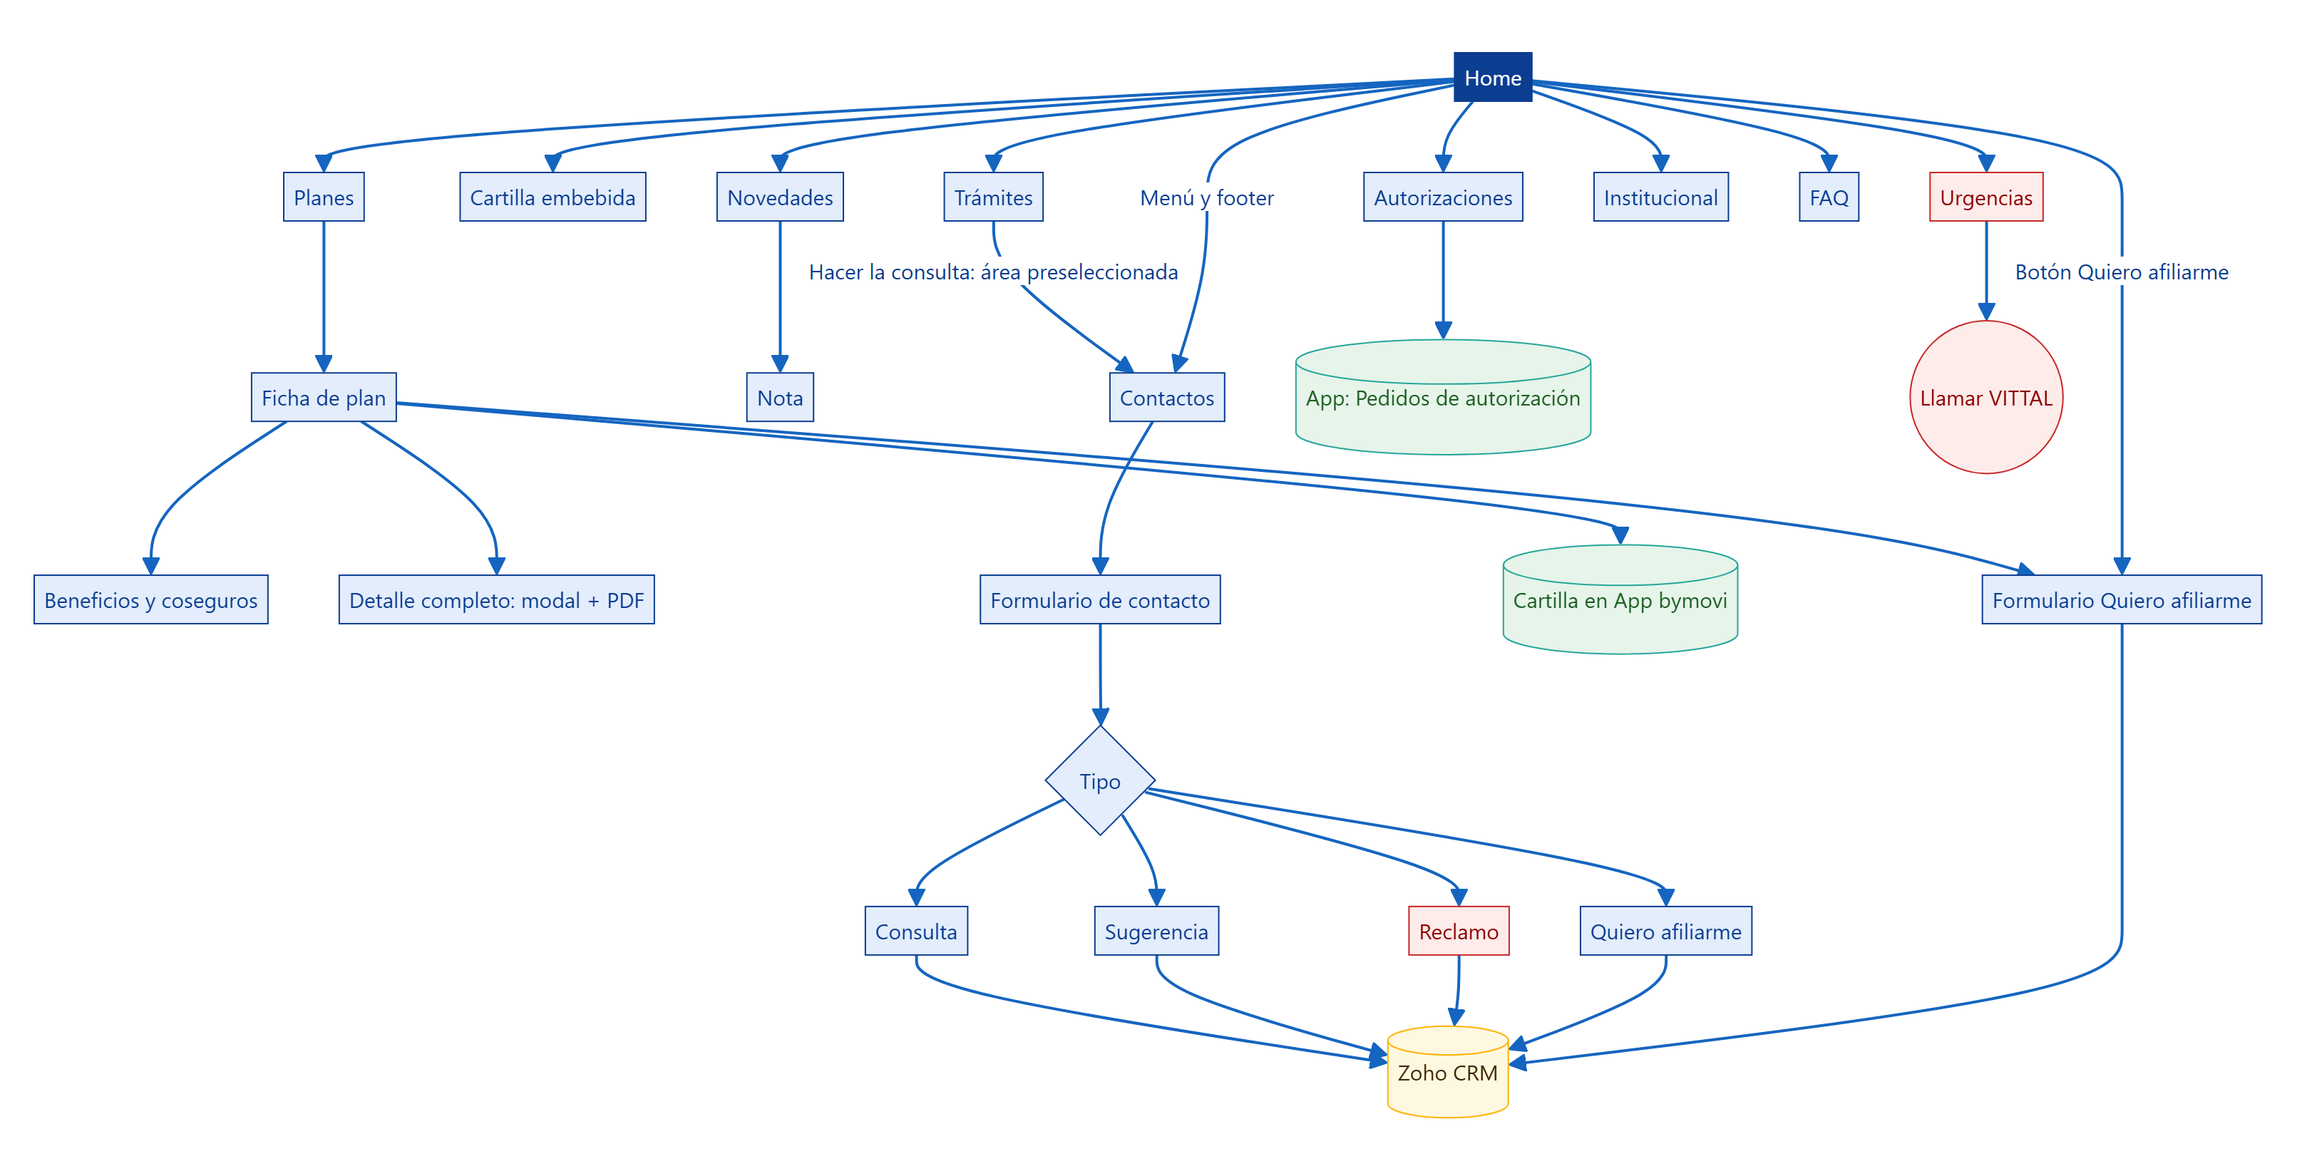
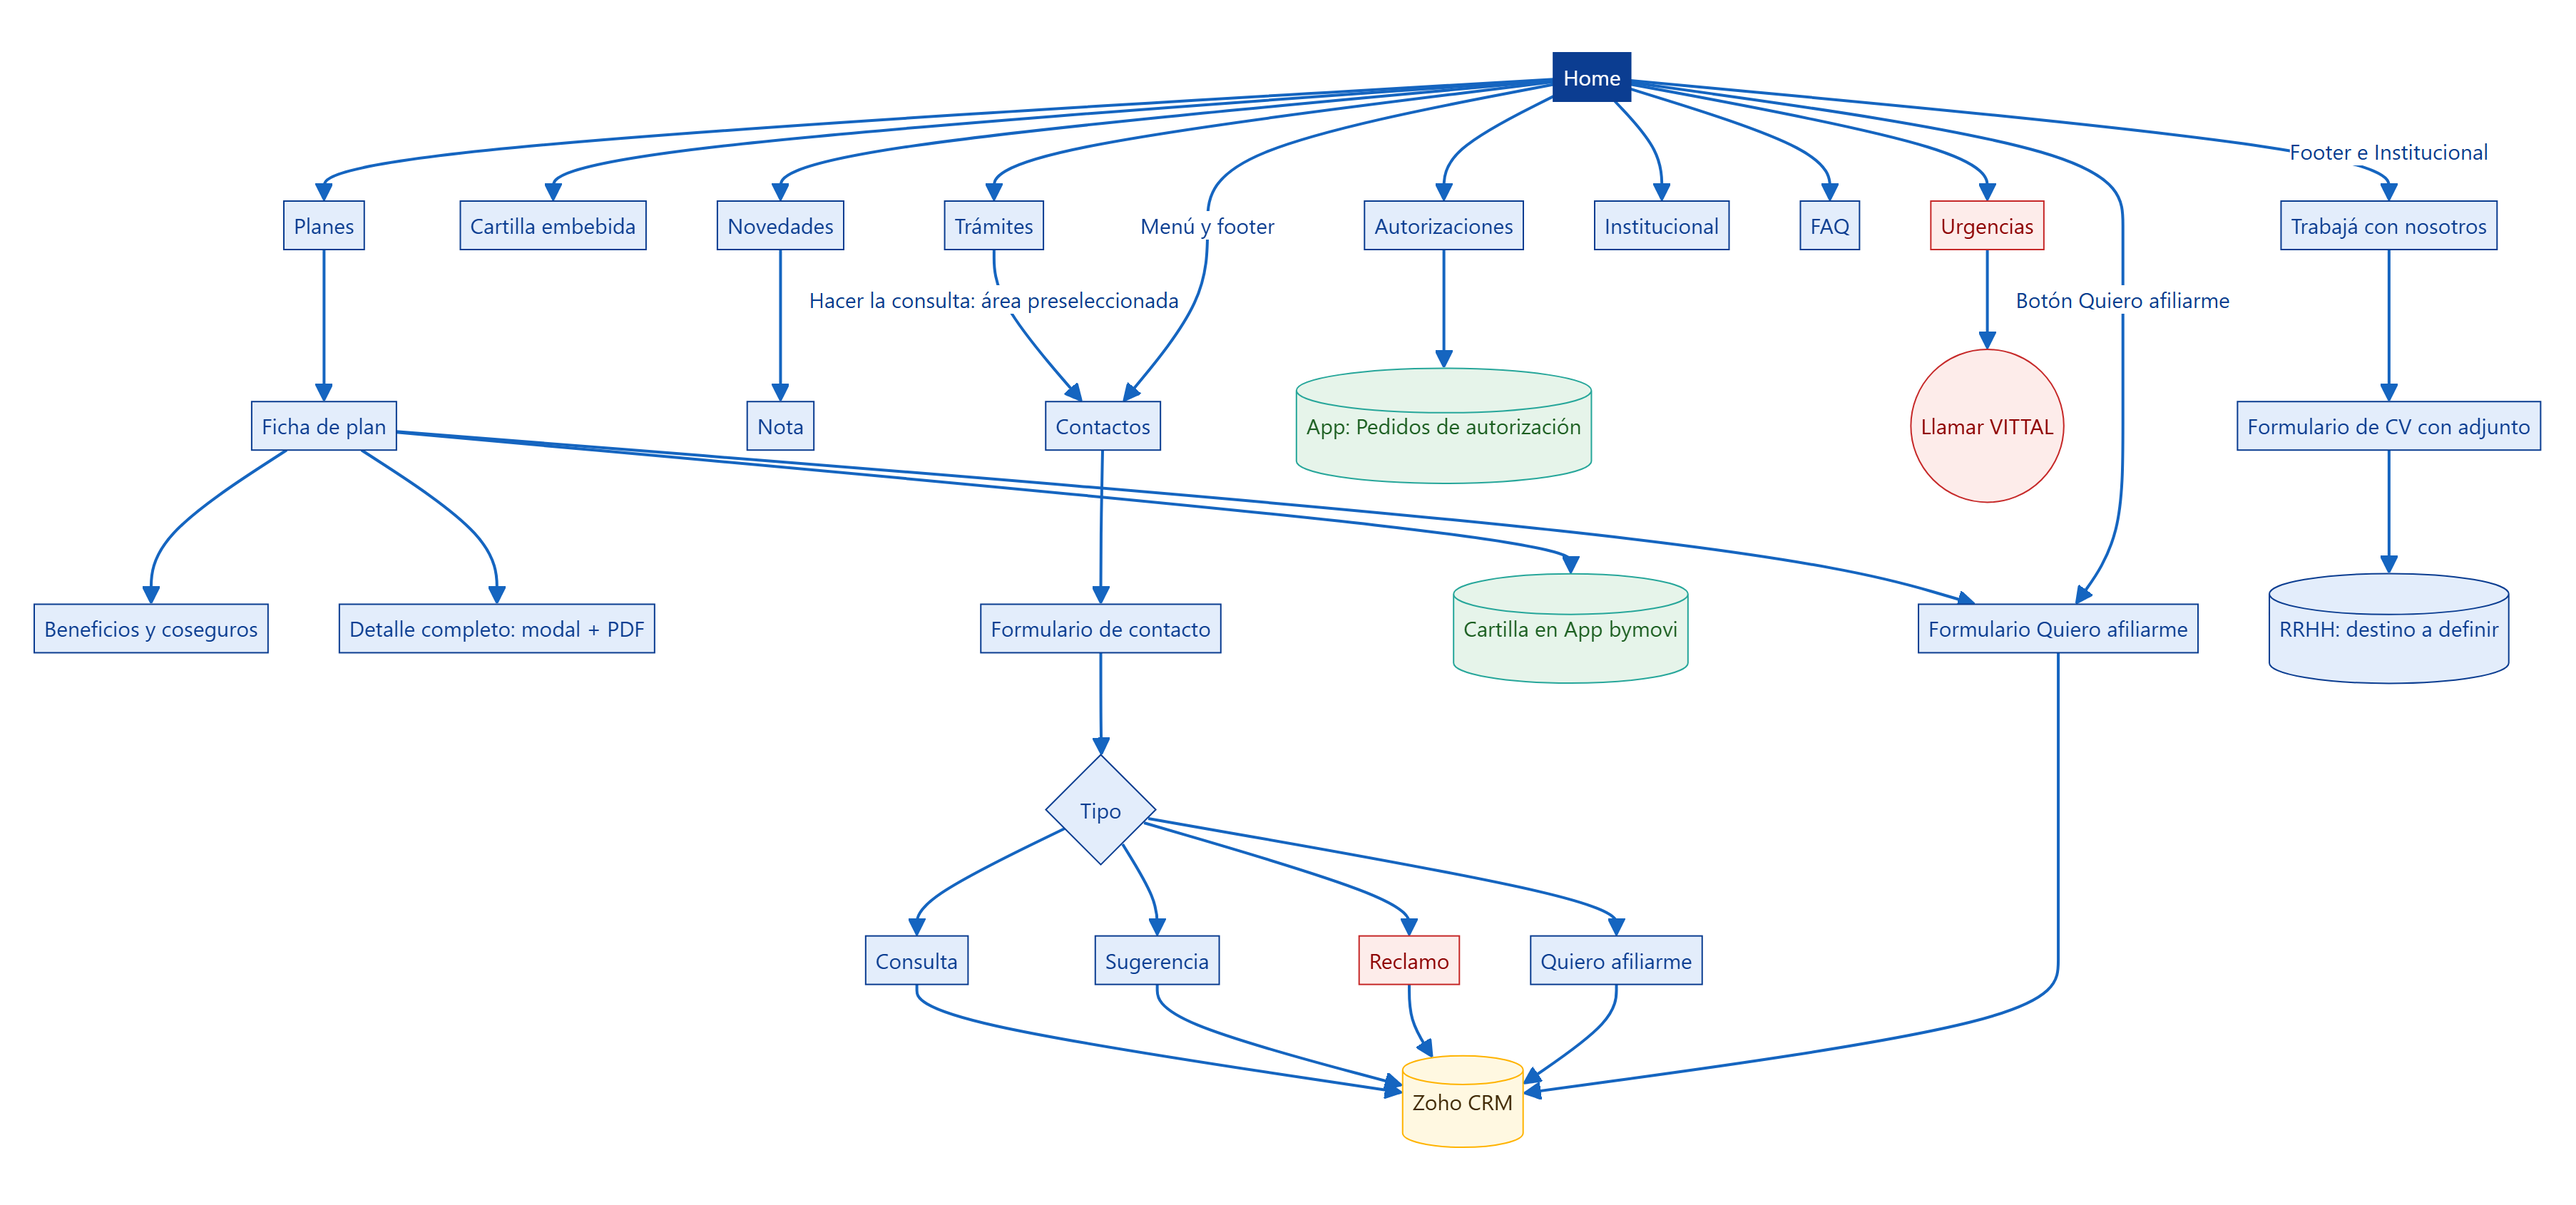
Trabajá con nosotros: "¿Querés formar parte de nuestro equipo? Envianos tu CV"
- Página #trabaja-con-nosotros: encabezado, motivos para trabajar en OSMISS
  y formulario con CV adjunto (PDF/DOC/DOCX, máx. 5 MB), área de interés y
  consentimiento para guardar los datos.
- Formulario genérico: valida tamaño y formato de adjuntos y admite un
  mensaje de confirmación propio; el envío pasa a multipart cuando hay archivos.
- Accesos desde el footer (destacado y en Navegación) y banda en Institucional.
- Mapa del sitio y diagrama actualizados.

diff --git a/src/pages/TrabajaConNosotros.jsx b/src/pages/TrabajaConNosotros.jsx
@@ -1,0 +1,90 @@
+import { DATA } from "../data.js";
+import { Titulo } from "../components/Layout.jsx";
+import { Formulario, Campo } from "../components/Formulario.jsx";
+
+// Trabajá con nosotros: búsqueda de talentos con envío de CV.
+export default function TrabajaConNosotros() {
+  const RRHH = DATA.config.rrhh;
+  return (
+    <>
+      <section className="autorizaciones-hero">
+        <div className="contenedor">
+          <span className="etiqueta">Trabajá con nosotros</span>
+          <h1>¿Querés formar parte de nuestro equipo?</h1>
+          <p>
+            Envianos tu CV. Buscamos personas comprometidas con la salud y con vocación de servicio
+            para acompañar a nuestros afiliados todos los días.
+          </p>
+          <div className="acciones">
+            <button
+              className="btn btn-destacado btn-grande"
+              onClick={() => document.getElementById("formulario-cv")?.scrollIntoView({ behavior: "smooth" })}
+            >
+              Enviar mi CV
+            </button>
+          </div>
+        </div>
+      </section>
+
+      <section className="seccion">
+        <div className="contenedor">
+          <Titulo titulo="¿Por qué trabajar en OSMISS?" />
+          <div className="grilla">
+            {RRHH.motivos.map((m) => (
+              <div className="tarjeta motivo" key={m.titulo}>
+                <div className="icono">{m.icono}</div>
+                <h3>{m.titulo}</h3>
+                <p>{m.texto}</p>
+              </div>
+            ))}
+          </div>
+        </div>
+      </section>
+
+      <section className="seccion seccion-alterna" id="formulario-cv">
+        <div className="contenedor">
+          <Titulo titulo="Envianos tu CV" bajada="Completá tus datos y adjuntá tu currículum. Lo vamos a tener en cuenta para próximas búsquedas." />
+          <div className="tarjeta form-tarjeta">
+            <Formulario
+              tipo="cv"
+              textoBoton="Enviar mi CV"
+              mensajeOk="¡Gracias por tu interés en sumarte a OSMISS! Recibimos tu CV y nos vamos a contactar si tu perfil se ajusta a alguna búsqueda."
+            >
+              <div className="fila">
+                <Campo label="Nombre" name="nombre" required />
+                <Campo label="Apellido" name="apellido" required />
+              </div>
+              <div className="fila">
+                <Campo label="Email" name="email" type="email" required />
+                <Campo label="Teléfono" name="telefono" type="tel" required />
+              </div>
+              <label className="campo">
+                <span>Área de interés *</span>
+                <select name="areaInteres" required defaultValue="">
+                  <option value="" disabled>Seleccioná un área</option>
+                  {RRHH.areas.map((a) => <option key={a}>{a}</option>)}
+                </select>
+              </label>
+              <label className="campo">
+                <span>Adjuntá tu CV * <small className="ayuda">(PDF, DOC o DOCX, hasta {RRHH.maxMb} MB)</small></span>
+                <input
+                  type="file"
+                  name="cv"
+                  accept=".pdf,.doc,.docx"
+                  data-max-mb={RRHH.maxMb}
+                  required
+                  className="campo-archivo"
+                />
+              </label>
+              <Campo label="Contanos sobre vos (opcional)" name="mensaje" type="textarea" />
+              <label className="campo-check">
+                <input type="checkbox" name="consentimiento" value="si" required />
+                <span>Acepto que OSMISS guarde mis datos y mi CV para procesos de selección.</span>
+              </label>
+            </Formulario>
+          </div>
+        </div>
+      </section>
+    </>
+  );
+}

diff --git a/src/components/Formulario.jsx b/src/components/Formulario.jsx
@@ -2,14 +2,27 @@ import { useState } from "react";
 import { enviarFormulario } from "../lib/formularios.js";
 
 // Formulario genérico con confirmación de envío y protección antispam (campo trampa oculto).
-export function Formulario({ tipo, children, textoBoton }) {
+export function Formulario({ tipo, children, textoBoton, mensajeOk }) {
   const [estado, setEstado] = useState("inicial"); // inicial | enviando | ok | error
+  const [errorArchivo, setErrorArchivo] = useState("");
 
   const alEnviar = async (e) => {
     e.preventDefault();
     const datos = Object.fromEntries(new FormData(e.target));
     if (datos.website) return; // los bots completan el campo oculto
     delete datos.website;
+    // Adjuntos: validar tamaño (data-max-mb) y extensión (accept) antes de enviar.
+    for (const input of e.target.querySelectorAll('input[type="file"]')) {
+      const archivo = input.files[0];
+      if (!archivo) continue;
+      const maxMb = Number(input.dataset.maxMb || 5);
+      const extensiones = (input.accept || "").split(",").map((x) => x.trim().toLowerCase()).filter(Boolean);
+      if (archivo.size > maxMb * 1024 * 1024) return setErrorArchivo(`El archivo supera los ${maxMb} MB.`);
+      if (extensiones.length && !extensiones.some((x) => archivo.name.toLowerCase().endsWith(x))) {
+        return setErrorArchivo(`Formato no admitido. Usá: ${extensiones.join(", ")}.`);
+      }
+    }
+    setErrorArchivo("");
     setEstado("enviando");
     try {
       await enviarFormulario(tipo, datos);
@@ -20,13 +33,14 @@ export function Formulario({ tipo, children, textoBoton }) {
   };
 
   if (estado === "ok") {
-    return <div className="aviso">¡Gracias! Recibimos tus datos y nos vamos a comunicar con vos a la brevedad.</div>;
+    return <div className="aviso">{mensajeOk || "¡Gracias! Recibimos tus datos y nos vamos a comunicar con vos a la brevedad."}</div>;
   }
 
   return (
     <form className="form" onSubmit={alEnviar}>
       <input type="text" name="website" className="trampa" tabIndex="-1" autoComplete="off" aria-hidden="true" />
       {children}
+      {errorArchivo && <div className="aviso error">{errorArchivo}</div>}
       {estado === "error" && <div className="aviso error">No pudimos enviar el formulario. Intentá nuevamente.</div>}
       <button className="btn btn-primario" type="submit" disabled={estado === "enviando"}>
         {estado === "enviando" ? "Enviando..." : textoBoton}

diff --git a/src/App.jsx b/src/App.jsx
@@ -16,6 +16,7 @@ import Contactos from "./pages/Contactos.jsx";
 import Afiliarme from "./pages/Afiliarme.jsx";
 import Urgencias from "./pages/Urgencias.jsx";
 import Autorizaciones from "./pages/Autorizaciones.jsx";
+import TrabajaConNosotros from "./pages/TrabajaConNosotros.jsx";
 import { BotonUrgencias } from "./components/Urgencias.jsx";
 
 const PAGINAS = {
@@ -23,6 +24,7 @@ const PAGINAS = {
   prevencion: Prevencion, institucional: Institucional, faq: FAQ,
   tramites: Tramites, contactos: Contactos, afiliarme: Afiliarme,
   urgencias: Urgencias, autorizaciones: Autorizaciones,
+  "trabaja-con-nosotros": TrabajaConNosotros,
 };
 
 export default function App() {
@@ -30,8 +32,10 @@ export default function App() {
   const Componente = PAGINAS[pagina] || NoEncontrado;
 
   useEffect(() => {
-    const item = DATA.menu.find((m) => m.id === pagina);
-    document.title = (item && pagina !== "home" ? item.label + " | " : "") + "OSMISS - Obra Social";
+    // Páginas que no están en el menú pero tienen título propio.
+    const otras = { afiliarme: "Quiero afiliarme", "trabaja-con-nosotros": "Trabajá con nosotros" };
+    const titulo = DATA.menu.find((m) => m.id === pagina)?.label || otras[pagina];
+    document.title = (titulo && pagina !== "home" ? titulo + " | " : "") + "OSMISS - Obra Social";
   }, [pagina]);
 
   return (

diff --git a/src/lib/formularios.js b/src/lib/formularios.js
@@ -4,17 +4,23 @@ import { DATA } from "../data.js";
 // "formulario" identifica de qué formulario viene (afiliacion | contacto); los campos propios del
 // formulario (por ej. "tipo": Consulta / Sugerencia / Reclamo / Quiero afiliarme) van tal cual.
 // Si config.formulariosApi está vacío, funciona en modo demo (no envía nada).
+// Si hay archivos adjuntos (por ej. el CV), se envía como multipart/form-data en lugar de JSON.
 export async function enviarFormulario(formulario, datos) {
   const api = DATA.config.formulariosApi;
   const cuerpo = { ...datos, formulario };
+  const conArchivos = Object.values(cuerpo).some((v) => v instanceof File && v.size > 0);
   if (!api) {
     console.info("[modo demo] Formulario", cuerpo);
     return;
   }
-  const res = await fetch(api, {
-    method: "POST",
-    headers: { "Content-Type": "application/json" },
-    body: JSON.stringify(cuerpo),
-  });
+  let opciones;
+  if (conArchivos) {
+    const fd = new FormData();
+    Object.entries(cuerpo).forEach(([k, v]) => fd.append(k, v));
+    opciones = { method: "POST", body: fd };
+  } else {
+    opciones = { method: "POST", headers: { "Content-Type": "application/json" }, body: JSON.stringify(cuerpo) };
+  }
+  const res = await fetch(api, opciones);
   if (!res.ok) throw new Error("Error " + res.status);
 }

diff --git a/src/data.js b/src/data.js
@@ -46,6 +46,17 @@ export const DATA = {
       registroUrl: "https://drive.google.com/file/d/1W7dtKNdsi2H_fvHa0HoBH7wYHoMxYGVg/view?usp=drive_link",
     },
     credencialUrl: "https://osmiss-app.bymovi.com/credencial-digital",
+    // Trabajá con nosotros (#trabaja-con-nosotros): recepción de CV. El formulario se envía con
+    // formulario: "cv" y el archivo adjunto en el campo "cv" (multipart). Definir quién los recibe.
+    rrhh: {
+      maxMb: 5,
+      areas: ["Atención al afiliado", "Administración", "Afiliaciones", "Auditoría médica", "Sistemas", "Otra"],
+      motivos: [
+        { icono: "🤝", titulo: "Vocación de servicio", texto: "Trabajamos todos los días para cuidar la salud de nuestros afiliados y sus familias." },
+        { icono: "📈", titulo: "Crecimiento", texto: "Valoramos el aprendizaje y el desarrollo profesional de cada integrante del equipo." },
+        { icono: "💙", titulo: "Buen clima", texto: "Un equipo cercano, que se apoya y trabaja con respeto y compromiso." },
+      ],
+    },
     // Urgencias y emergencias. Fuente: https://www.osmiss.org.ar/cobertura-plan200.html
     // Se muestran en la barra superior, el botón flotante (celular), la sección Urgencias y el footer.
     urgencias: {

diff --git a/src/styles.css b/src/styles.css
@@ -334,6 +334,17 @@ td.col-destacada { background: #fff8e1; font-weight: 700; }
   .modal-acciones .btn { padding: 10px 14px; font-size: 0.92rem; }
 }
 
+/* ---------- Trabajá con nosotros ---------- */
+.footer-empleo {
+  display: inline-block; margin-top: 10px; padding: 10px 14px; border-radius: 10px;
+  background: rgba(255, 255, 255, 0.08); color: var(--blanco); font-size: 0.92rem; line-height: 1.4;
+}
+.footer-empleo strong { color: var(--dorado); }
+.footer-empleo:hover { background: rgba(255, 255, 255, 0.15); }
+.campo-archivo { padding: 10px; border: 2px dashed var(--borde); border-radius: 10px; background: var(--fondo); font: inherit; }
+.campo-check { display: flex; gap: 10px; align-items: flex-start; font-size: 0.92rem; color: var(--texto-suave); }
+.campo-check input { margin-top: 3px; width: 18px; height: 18px; }
+
 /* ---------- Accesos rápidos (Home) ---------- */
 .accesos-contenedor { position: relative; z-index: 3; margin-top: -44px; }
 .accesos { display: grid; grid-template-columns: repeat(4, 1fr); gap: 14px; }

diff --git a/src/components/Footer.jsx b/src/components/Footer.jsx
@@ -8,11 +8,15 @@ export default function Footer() {
         <div>
           <a href="#home" className="logo logo-footer">OSMISS<span>.</span></a>
           <p>Obra social comprometida con tu salud y la de tu familia.</p>
+          <a href="#trabaja-con-nosotros" className="footer-empleo">
+            💼 ¿Querés formar parte de nuestro equipo? <strong>Envianos tu CV</strong>
+          </a>
         </div>
         <div>
           <strong>Navegación</strong>
           <ul>
             {DATA.menu.map((m) => <li key={m.id}><a href={"#" + m.id}>{m.label}</a></li>)}
+            <li><a href="#trabaja-con-nosotros">Trabajá con nosotros</a></li>
           </ul>
         </div>
         <div>

diff --git a/src/pages/Institucional.jsx b/src/pages/Institucional.jsx
@@ -61,6 +61,15 @@ export default function Institucional() {
           <Instituciones />
         </div>
       </section>
+      <section className="cta-banda">
+        <div className="contenedor">
+          <div>
+            <h2>¿Querés formar parte de nuestro equipo?</h2>
+            <p>Envianos tu CV y sumate a una obra social que cuida a las personas.</p>
+          </div>
+          <a href="#trabaja-con-nosotros" className="btn btn-destacado">Envianos tu CV</a>
+        </div>
+      </section>
     </>
   );
 }

diff --git a/MAPA-DEL-SITIO.md b/MAPA-DEL-SITIO.md
@@ -41,6 +41,8 @@ OSMISS (sitio público)
 ├── Contactos ........................................ /contactos
 │   └── Con área preseleccionada ..................... /contactos/{area}
 ├── Urgencias ........................................ /urgencias
+├── Trabajá con nosotros (envío de CV) ............... /trabaja-con-nosotros
+│        (acceso desde el footer e Institucional, no está en el menú principal)
 │
 └── Quiero afiliarme (formulario) .................... /afiliarme
     └── Con plan preseleccionado ..................... /afiliarme/{plan}
@@ -82,6 +84,9 @@ flowchart TD
     T3 --> Z
     T4 --> Z
     A --> Z
+    H -->|Footer e Institucional| TR[Trabajá con nosotros]
+    TR --> CV[Formulario de CV con adjunto]
+    CV --> RH[(RRHH: destino a definir)]
 ```
 
 > Todos los formularios terminan en **Zoho CRM** (y se guardan en el Backoffice). El campo **Tipo** del
@@ -182,6 +187,12 @@ Orden de bloques:
 ### 3.13 Quiero afiliarme `/afiliarme` y `/afiliarme/{plan}`
 - Formulario de afiliación (ver [Formularios](#5-formularios)).
 
+### 3.14 Trabajá con nosotros `/trabaja-con-nosotros`
+- Encabezado: **"¿Querés formar parte de nuestro equipo? Envianos tu CV"** + botón "Enviar mi CV".
+- "¿Por qué trabajar en OSMISS?" (3 motivos).
+- **Formulario de CV** con archivo adjunto (ver [Formularios](#5-formularios)).
+- Accesos: footer (destacado y en Navegación) y banda al final de Institucional.
+
 ---
 
 ## 4. Enlaces externos
@@ -213,6 +224,11 @@ Deben guardarse también en el Backoffice, según la propuesta.
 |---|---|---|
 | **Quiero afiliarme** | /afiliarme | Nombre*, Apellido*, DNI* (7-8 dígitos), Fecha de nacimiento*, Teléfono*, Email*, Plan de interés, Comentarios |
 | **Contacto / Sugerencias / Reclamos** | /contactos | Tipo* (Quiero afiliarme / Consulta / Sugerencia / Reclamo), Área (Afiliaciones / Gerencia Médica / Control de Aportes / Otras consultas), Nombre*, Apellido*, Email*, Teléfono*, DNI/CUIL/CUIT, Mensaje* |
+| **Envío de CV** | /trabaja-con-nosotros | Nombre*, Apellido*, Email*, Teléfono*, Área de interés*, CV* (PDF/DOC/DOCX, máx. 5 MB), Mensaje, Consentimiento* para guardar los datos |
+
+> El formulario de CV se envía como `multipart/form-data` (por el archivo adjunto) con `formulario: "cv"`.
+> **No forma parte de la integración con Zoho de la propuesta**: definir el destino (casilla de RRHH,
+> almacenamiento en el Backoffice o Zoho Recruit) y el tratamiento de datos personales (Ley 25.326).
 
 **Envío a Zoho CRM** — cada envío es un JSON con todos los campos del formulario más `formulario`,
 que indica de dónde viene. En Contactos, el campo `tipo` indica la categoría elegida y `area`, el sector:
@@ -308,5 +324,6 @@ y las descripciones completas en `src/descripciones.js`. Los PDF se generan con 
 
 **Integraciones**
 - **Zoho CRM**: endpoint de la API para los formularios.
+- **CV (Trabajá con nosotros)**: definir quién recibe los CV y dónde se guardan; áreas de interés del formulario.
 - **bymovi**: la cartilla se embebe por recorte visual (depende de su diseño). Recomendado: pedir a bymovi un modo "embebido" oficial sin menú.
 - **GA4**, sitemap, Open Graph por página y URLs amigables (propuesta, punto 07).
